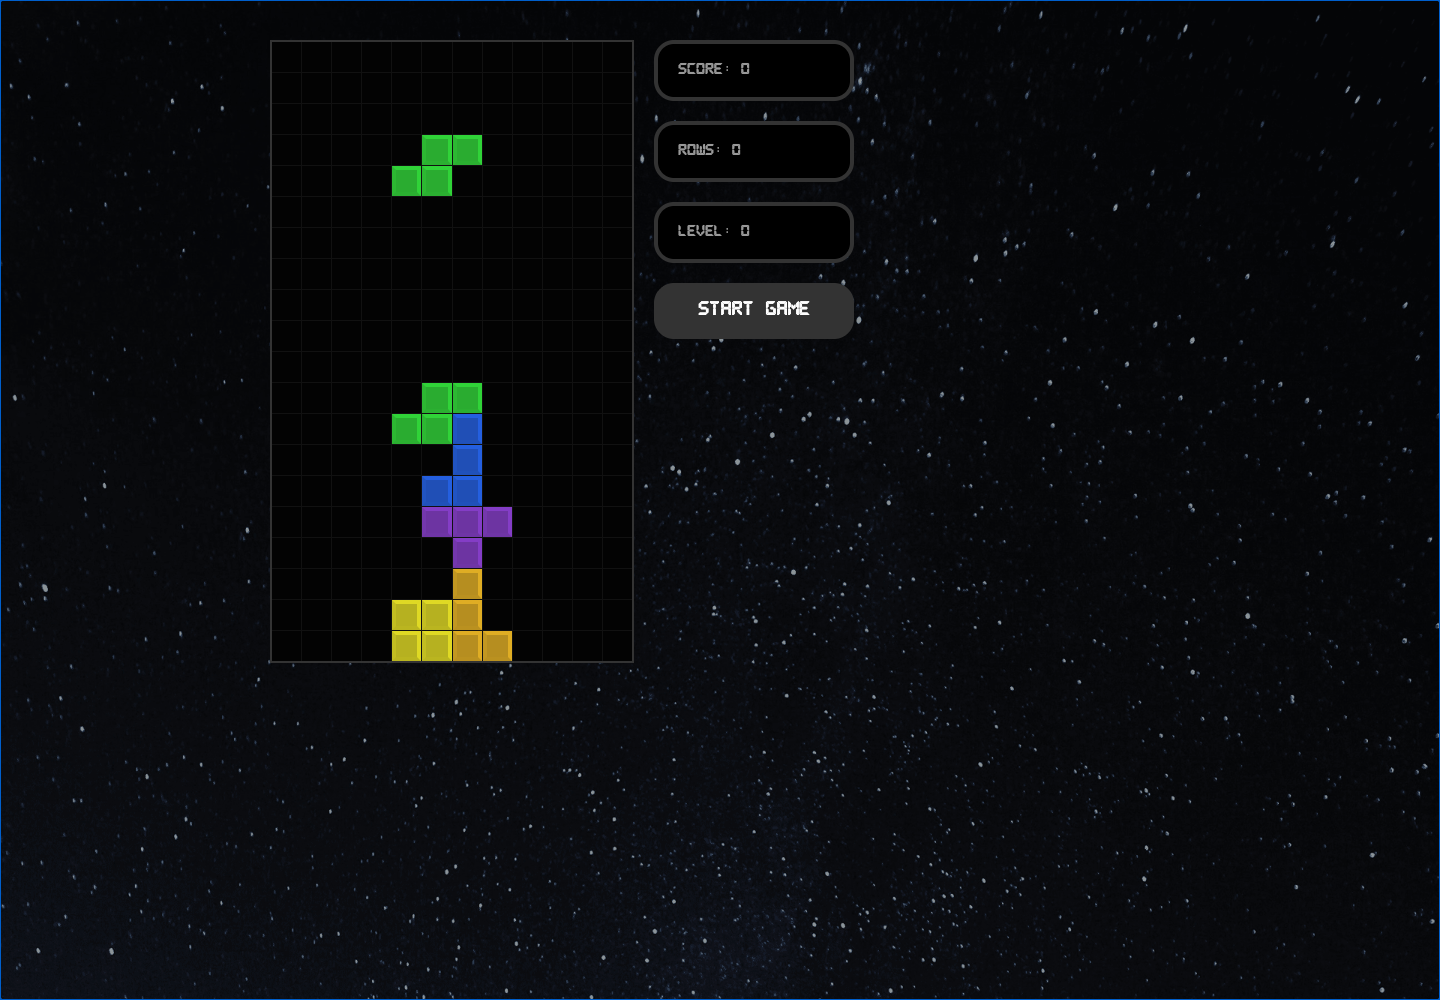
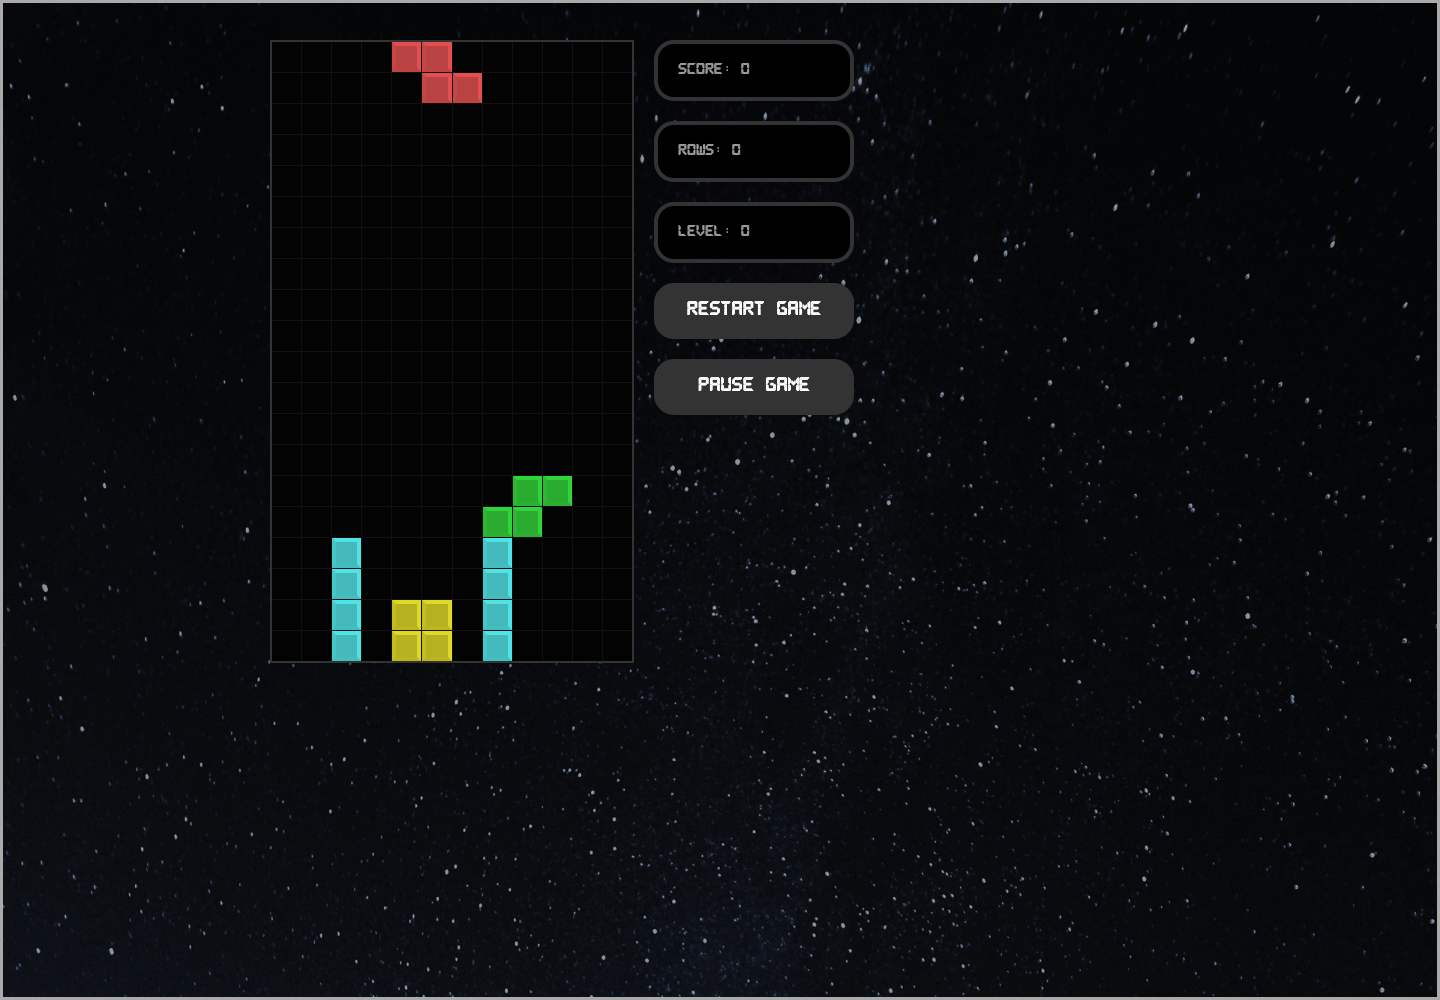
Document game-state contracts and refresh verified gameplay examples
Copilot-Session: 2736b925-2ddc-4f5f-8e27-f0b012028d11

diff --git a/index.html b/index.html
@@ -5,7 +5,7 @@
     <meta name="viewport" content="width=device-width, initial-scale=1" />
     <meta
       name="description"
-      content="A keyboard-controlled falling-block game built with React, custom hooks, and styled-components."
+      content="A deterministic TypeScript falling-block game with seeded rounds, explicit pause, and keyboard/touch controls."
     />
     <title>React Tetris</title>
   </head>

diff --git a/src/game/seed.test.ts b/src/game/seed.test.ts
@@ -1,3 +1,4 @@
+// @vitest-environment node
 import { expect, it } from 'vitest';
 import { readSeed } from './seed';
 

diff --git a/src/game/engine.test.ts b/src/game/engine.test.ts
@@ -1,3 +1,4 @@
+// @vitest-environment node
 import { describe, expect, it } from 'vitest';
 import {
   BOARD_HEIGHT,

diff --git a/docs/architecture.md b/docs/architecture.md
@@ -1,0 +1,86 @@
+# Architecture and engineering decisions
+
+The central problem in this game is **coordinating state transitions**, not adding a framework. The earlier implementation split movement, drawing, locking, spawning and scoring across effects in several hooks. Updating other state from a board updater made the ordering hard to reason about and unsafe to replay.
+
+The current implementation uses one deterministic game engine and a small React adapter. It preserves the original 12-by-20 board, palette, font and background while making the rules independently executable and the controls usable on narrow screens.
+
+## Boundaries
+
+| Module                 | Responsibility                                                                               |
+| ---------------------- | -------------------------------------------------------------------------------------------- |
+| `game/engine.ts`       | Pure state transitions, collision checks, rotation, row clearing, scoring and spawn validity |
+| `game/pieces.ts`       | Readonly shape definitions, cell types and palette                                           |
+| `game/seed.ts`         | Runtime validation of the optional unsigned 32-bit URL seed                                  |
+| `hooks/useGame.ts`     | React reducer integration, round seed creation and browser lifecycle events                  |
+| `hooks/useInterval.ts` | One gravity timer, latest callback and teardown                                              |
+| `components/`          | Typed presentation, accessible controls and input translation                                |
+| `components/styles/`   | Original desktop presentation plus narrow-screen layout rules                                |
+
+There is no module-global mutable game state, persistence service, global state framework or worker. A single board has 240 cells; speculative caching and concurrency infrastructure would add more complexity than value here.
+
+## One authoritative transition
+
+The settled board and active piece are separate. Rendering overlays the active piece into a fresh projected board; it never turns visual cells into the source of game truth.
+
+A downward collision or hard drop performs all of these in one reducer transition:
+
+1. Merge the active piece into a new settled board.
+2. Remove completed rows and prepend independent empty rows.
+3. Award line points using the level **before** the clear.
+4. Update total rows; derive the next level from that total.
+5. Advance explicit random state and attempt the next spawn.
+6. Enter game-over state if the spawn is blocked.
+
+No effect is responsible for finishing another effect's work. Consecutive clears of the same size are separate commands, not changes to a `rowsCleared` value that React may batch together. A level change cannot accidentally score an old clear again.
+
+Movement and rotation do not mutate old snapshots. State, board rows and piece matrices are readonly at the type boundary; frozen-input tests exercise the rule implementation. Invalid moves return the current state.
+
+## State and timing contracts
+
+| State     | Accepted gameplay behavior                                                     |
+| --------- | ------------------------------------------------------------------------------ |
+| Idle      | Wait for an explicit start                                                     |
+| Running   | Move, rotate, soft drop, hard drop or pause; a blocked spawn ends the game     |
+| Paused    | Keep the board unchanged until an explicit resume or restart                   |
+| Game over | Keep the final board and statistics; reject movement and gravity until restart |
+
+Start is an explicit reset from any state. Level is `floor(totalRows / 10)`, not another independently writable state field. Line points retain the learning project's 40/100/300/1200 schedule multiplied by the pre-clear level plus one; movement and drop distance do not award extra points.
+
+The React adapter owns one interval while running. The reducer and its initializer have no clock reads, ambient randomness or state-setting side effects, so React Strict Mode can replay them safely.
+
+Soft drop is a normal downward command and never disables gravity. Pause clears the interval. Resume starts a fresh full gravity delay; it does not preserve a fractional deadline or catch up on time spent away. This is a deliberate, forgiving policy rather than a competitive timing simulation.
+
+Focus leaving the game, window blur or a hidden document pauses a running round. Returning focus does not resume automatically. Duplicate pause events are harmless. Unmounting releases both the clock and browser listeners.
+
+## Determinism without pretending to provide a full replay system
+
+The engine stores its 32-bit generator state explicitly. A linear congruential generator produces repeatable piece choices using integer arithmetic, with no ambient `Math.random` or browser dependency inside the reducer.
+
+Normal rounds receive a fresh browser-generated seed. `?seed=12345` selects a validated seed and restarts reproduce its sequence. The same seed **and action sequence** produce the same state, including gravity actions.
+
+This is not a recorded replay player, a cryptographic generator or a fairness guarantee. There is no seven-piece bag, so piece droughts remain possible. A shared seed alone does not reproduce another player's input timing or completed round.
+
+## Input and accessibility
+
+Keyboard commands are handled only when the game region itself has focus. Space or arrows on a native button cannot bubble into an accidental gameplay action. Repeating P or Space is ignored to prevent repeated pause toggles or unintended hard drops; ordinary movement can repeat.
+
+Controls provide visible focus, native disabled states, named on-screen actions and documented shortcuts. Narrow layouts support pointer/touch move, rotate and hard drop without horizontal overflow. A status region announces phase and score/row changes rather than every falling-cell tick. Final statistics remain visible after game over.
+
+The board is one named graphic instead of 240 focusable cells. This is **not** a claim of fully nonvisual playability. Automated axe checks and viewport emulation do not replace manual screen-reader testing, Safari/Firefox checks or real-device evaluation.
+
+## Verification
+
+- **Node rule tests:** immutable inputs, collision bounds and padding, one-to-four-line clears, pre-clear scoring, blocked spawning, rotation, pause, restart and deterministic action replay.
+- **React integration:** Strict Mode clock ownership, soft-drop/gravity interaction, keyboard focus, lifecycle pause, explicit resume and teardown.
+- **Production browsers:** actual rendered cell changes, controlled gravity, seed restarts, terminal-state rejection, mouse/touch controls, narrow-width overflow and axe checks.
+- **Quality gates:** strict TypeScript covers app, tests and tooling; shared formatting, focused-test protection, flaky-test failure, bounded CI runtime and retained browser failure artifacts.
+
+Browser tests start their own fresh production server and will not reuse an unrelated process on the port. Tests manipulate time and use the public seed feature rather than exposing test-only game-state mutation APIs.
+
+The original desktop board and statistics were compared against deterministic before-change browser captures. Full-page screenshots intentionally differ where pause controls were added and where the narrow layout was improved. Local screenshot parity is not a cross-platform visual regression suite.
+
+## Deliberate limits
+
+This remains a personal learning implementation, not official Tetris rules or a commercial game. Rotation tries horizontal collision adjustments, not the standard rotation system or floor kicks. There is no next-piece preview, hold, lock delay, score persistence, authenticated leaderboard, analytics or backend.
+
+Those features would need their own rules and tests. They are not implied by the TypeScript migration or by a green CI badge.

diff --git a/README.md b/README.md
@@ -19,19 +19,23 @@ npm start
 
 Open the localhost URL printed by Vite, then select **Start Game**. The game receives keyboard focus automatically.
 
-| Key          | Action                                                 |
-| ------------ | ------------------------------------------------------ |
-| Left / right | Move the active piece                                  |
-| Up           | Rotate clockwise, with horizontal collision adjustment |
-| Down         | Soft drop without disabling gravity                    |
-| Space        | Hard drop and lock the active piece                    |
-| P            | Pause or resume                                        |
-| Escape       | Pause                                                  |
-| Start Game   | Start or reset the board, score and level              |
+| Key                  | Action                                                 |
+| -------------------- | ------------------------------------------------------ |
+| Left / right         | Move the active piece                                  |
+| Up                   | Rotate clockwise, with horizontal collision adjustment |
+| Down                 | Soft drop without disabling gravity                    |
+| Space                | Hard drop and lock the active piece                    |
+| P                    | Pause or resume                                        |
+| Escape               | Pause                                                  |
+| Start / Restart Game | Reset the board, score and level                       |
 
 The game pauses when focus leaves the game, its browser window loses focus, or the document becomes hidden. Returning does not silently restart gravity: choose **Resume game** or press **P**. Narrow layouts provide on-screen move/rotate/drop buttons.
 
+![The current narrow-screen game with on-screen controls](screenshots/mobile.png)
+
 ## Engineering walkthrough
+
+See [Architecture and engineering decisions](docs/architecture.md) for state ownership, transition ordering, determinism, timing policies and verification boundaries.
 
 - `src/game/engine.ts` owns pure, atomic transitions: movement, rotation, locking, row clearing, scoring, spawning and terminal state.
 - The settled board and active piece are separate. Rendering projects the active piece without mutating the board.
@@ -68,6 +72,6 @@ Playwright builds and serves a fresh production app, then exercises keyboard/gra
 
 No backend, persistence or analytics: game state lives entirely in memory and reloading loses the current round. Keyboard and narrow-screen button controls are supported. Rotation uses horizontal collision adjustment, not the official rotation system; there is no next-piece preview, seven-piece bag, hold mechanic, lock delay or competitive scoring service. Replay seeds reproduce piece generation; reproducing an entire round also requires the same timed action sequence. The original visual assets and learning-project identity are preserved rather than presenting this as a commercial game.
 
-The screenshot above was captured from the running app with real keyboard input, without injected game state. Older screenshots remain in `screenshots/` as historical assets.
+The current screenshots were captured from the running app with real keyboard/touch actions and a reproducible seed, without injecting game state. Gravity was held during capture to keep the images stable. Older screenshots remain in `screenshots/` as historical assets.
 
 Tetris is a trademark of its respective owners; this personal learning project is unaffiliated.
